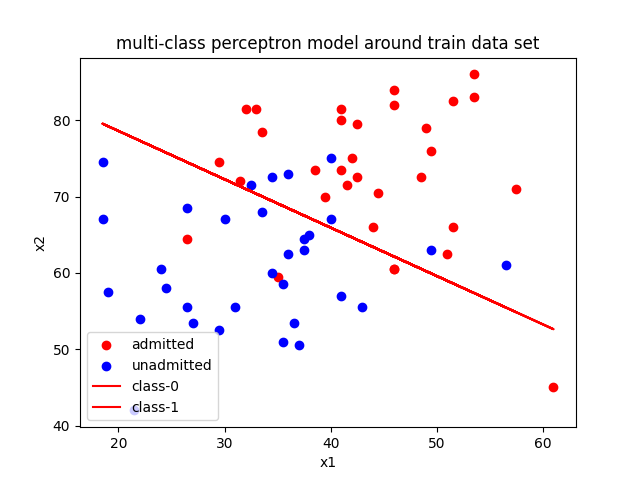
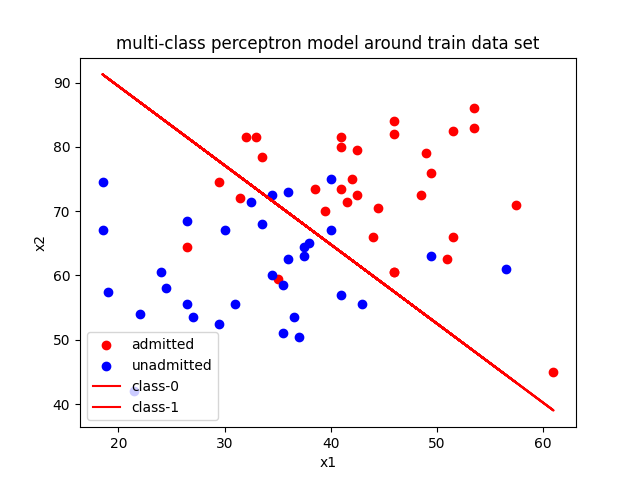
make answer pictures more perfect

diff --git a/perceptron/perceptron.py b/perceptron/perceptron.py
@@ -8,7 +8,7 @@ import matplotlib.pyplot as plt
 # TODO: two-class perceptron class
 class Perceptron2:
 
-    def __init__(self, learn_rate = 0.00001, epochs = 15000, threshold = 0.0):
+    def __init__(self, learn_rate = 1e-4, epochs = 15000, threshold = 0.0):
         self.learn_rate = learn_rate
         self.epochs = epochs
         self.threshold = threshold
@@ -81,8 +81,8 @@ class Perceptron2:
         scaled_x = scale_feature(self.x)
         scaled_x1 = scaled_x[:,0]
         x2 = np.array(self.x[:,1])
-        scaled_x2 = (-self.args[0] - self.args[1]*scaled_x1) / self.args[2]
-        model_x2 = reverse_scale_feature(scaled_x2, x2)
+        scaled_x2 = (- self.args[1]*scaled_x1) / self.args[2]
+        model_x2 = reverse_scale_feature(scaled_x2, x2) - self.args[0]
         plt.plot(np.array(self.x)[:,0], model_x2, color='red')
         plt.show()
 
@@ -97,7 +97,7 @@ class Perceptron2:
 
 # TODO:multi-class perceptron class 
 class Perceptronm:
-    def __init__(self, num_class, train_x, train_y, learn_rate = 0.00001, epochs = 15000):
+    def __init__(self, num_class, train_x, train_y, learn_rate = 1e-4, epochs = 15000):
         self.learn_rate = learn_rate
         self.num_class = 2
         self.epochs = epochs
@@ -189,8 +189,8 @@ class Perceptronm:
         scaled_x1 = scaled_x[:,0]
         x2 = np.array(self.train_x[:,1])
         for class_i, args_i in enumerate(self.args):
-            scaled_x2 = (-args_i[0] - args_i[1]*scaled_x1) / args_i[2]
-            model_x2 = reverse_scale_feature(scaled_x2, x2)
+            scaled_x2 = (- args_i[1]*scaled_x1) / args_i[2]
+            model_x2 = reverse_scale_feature(scaled_x2, x2) - args_i[0] 
             plt.plot(np.array(self.train_x)[:,0], model_x2, color='red', label = f"class-{class_i}")
         plt.legend()
         plt.show()
